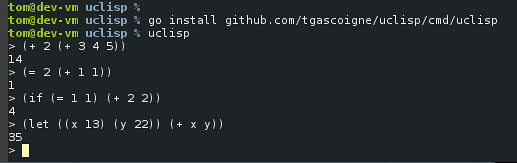
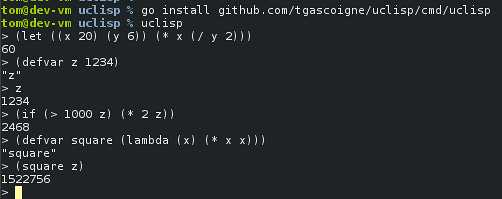
implement lambda

Changed region(s): [[0.0, 0.0, 1.0, 1.0], [0.4482, 0.6748, 0.5378, 0.7362], [0.4183, 0.6748, 0.4482, 0.7055]]

diff --git a/ast/basic_forms.go b/ast/basic_forms.go
@@ -12,6 +12,7 @@ func init() {
 	Global.Set(Symbol("progn"), SpecialForm{prognForm})
 	Global.Set(Symbol("if"), SpecialForm{ifForm})
 	Global.Set(Symbol("defvar"), SpecialForm{defvarForm})
+	Global.Set(Symbol("lambda"), SpecialForm{lambdaForm})
 }
 
 func carForm(env *Env, args List) Value {
@@ -100,13 +101,12 @@ func letForm(env *Env, args List) Value {
 }
 
 func prognForm(env *Env, args List) Value {
-	var result Value
-	result = Nil
-	for _, f := range args {
-		result = f.Eval(env)
+	prog := make(Prog, len(args))
+	for i, f := range args {
+		prog[i] = f
 	}
 
-	return result
+	return prog.Eval(env)
 }
 
 func ifForm(env *Env, args List) Value {
@@ -149,3 +149,34 @@ func defvarForm(env *Env, args List) Value {
 
 	return symbol
 }
+
+var ErrInvalidArgList = errors.New("invalid argument list")
+
+func lambdaForm(env *Env, args List) Value {
+	if len(args) < 2 {
+		exceptionArgCount("lambda", len(args))
+	}
+
+	var bindings []Symbol
+	if b, ok := args[0].(ListForm); ok {
+		bindings = make([]Symbol, len(b))
+		for i, item := range b {
+			if sym, ok := item.(Symbol); ok {
+				bindings[i] = sym
+			} else {
+				exception(ErrNotASymbol, item)
+			}
+		}
+	} else {
+		exception(ErrInvalidArgList, args[0])
+	}
+
+	prog := make(Prog, len(args[1:]))
+	for i, f := range args[1:] {
+		prog[i] = f
+	}
+
+	return Lambda{bindings, prog}
+}
+
+//(funcall (lambda (x y) (+ x y) (* x y)) 2 4)

diff --git a/ast/lambda.go b/ast/lambda.go
@@ -2,8 +2,8 @@ package ast
 
 // Lambda is a Callable value whose body is a Prog
 type Lambda struct {
-	argBindings []Symbol
-	prog        Form
+	Bindings []Symbol
+	Prog     Prog
 }
 
 func (l Lambda) Type() Type {
@@ -18,17 +18,21 @@ func (l Lambda) IsNil() bool {
 	return false
 }
 
+func (l Lambda) Equals(env *Env, other Value) bool {
+	return false
+}
+
 func (l Lambda) Call(parentEnv *Env, args List) Value {
-	if len(args) != len(l.argBindings) {
-		exceptionArgCountExpected("lambda", len(l.argBindings), len(args))
+	if len(args) != len(l.Bindings) {
+		exceptionArgCountExpected("lambda", len(l.Bindings), len(args))
 	}
 
 	env := parentEnv.New()
 
 	// bind symbols
-	for i, sym := range l.argBindings {
+	for i, sym := range l.Bindings {
 		env.Set(sym, args[i].Eval(env))
 	}
 
-	return l.prog.Eval(env)
+	return l.Prog.Eval(env)
 }

diff --git a/ast/form.go b/ast/form.go
@@ -27,6 +27,18 @@ func (l ListForm) Eval(env *Env) Value {
 	return lambda.Call(env, args)
 }
 
+type Prog []Form
+
+func (p Prog) Eval(env *Env) Value {
+	var result Value
+	result = Nil
+	for _, f := range p {
+		result = f.Eval(env)
+	}
+
+	return result
+}
+
 // A SpecialForm is a Form which is built in to the interpreter
 // Symbols matching built in forms will eval to this type (via specialForms map)
 type SpecialForm struct {

diff --git a/parser/parser_test.go b/parser/parser_test.go
@@ -66,6 +66,9 @@ var simpleTestCases = []simpleTest{
 	{"(not nil)", ast.True},
 	{"(not t)", ast.Nil},
 	{"(not (if (= 1 1) t))", ast.Nil},
+	{`(progn
+		(defvar square (lambda (x) (* x x)))
+		(square 2))`, ast.Integer(4)},
 }
 
 func TestSimpleCases(t *testing.T) {
